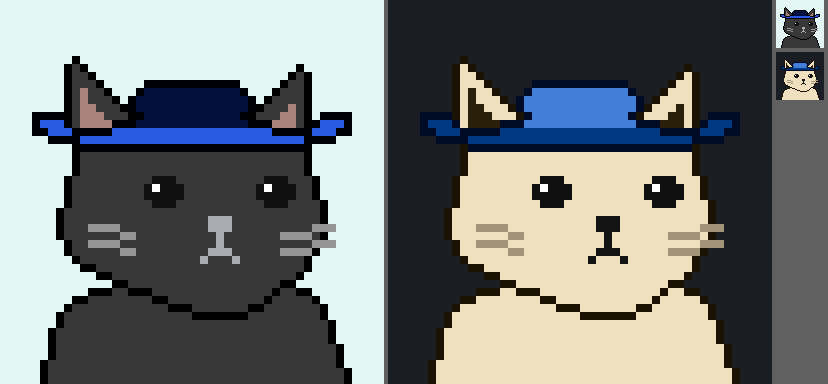
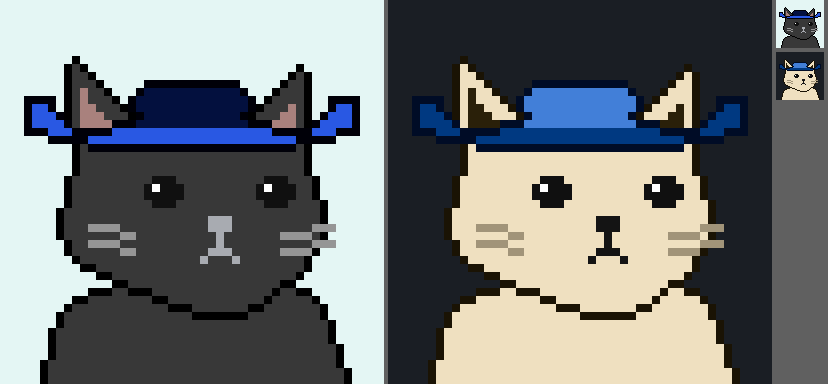
Fix what the second review still found at native size
Round two confirmed six of the nine rebuilds and left four things that only
explained themselves at 8x.

The corner watermark is gone. It survived being drawn but not being seen:
backgrounds hold their two tones deliberately close together, and at that
separation a shape with a three-column gap in the middle is a smudge where a dot
grid is not. Its slot goes to an order book depth ladder instead -- bars of
varying length running in from both margins, which is edge-anchored, simple, and
the one piece of trading furniture specific to Hyperliquid rather than generic to
crypto. The mark still earns its place on the hoodie, drawn in a garment palette.

The cowboy hat was reading as a sombrero, which is both the wrong hat and
adjacent to a collection this one should stay away from. Its tips now curl four
rows clear of the brim line rather than two. The mortarboard's tassel was a
two-pixel cord, so inked() painted every pixel of it, right beside the far ear's
own ink line; it has a terminal mass now and hangs clear of column 38. The
puffer's placket was six columns wide, which stopped being a zip and became a
panel, and the coat read as armour -- four columns now, with vertical ticks
between the seams so the quilting reads as chambers rather than stripes.

Also: the horizon split moves from row 30 to row 20, off the whiskers, where it
reads as distance instead of a counter the cat is standing behind. The jersey
[…]

diff --git a/packages/hyper-identicons/src/art/data/clothing.ts b/packages/hyper-identicons/src/art/data/clothing.ts
@@ -4,8 +4,8 @@ export const clothing: Record<string, string> = {
[2 lines of base64/hex data omitted]
   "tee": 'JAUMJwYABQETAAQBCQACAQUGAwEPAAEBBAYBAQcAAQEKBgIBDAABAQYGAQEFAAEBDQYDAQcAAgEHBgEBBQABARAGBwEKBgEBAwABASIGAQEDAAEBIgYBAQMAAQEjBgEBAgABASMGAQEBAAEBJAYBAQEAAQElBgIBJQYBAQ==',
[1 lines of base64/hex data omitted]
-  "jersey": 'JAUMJwYABQETAAQBCQACAQUGAwEPAAEBBAYBAQcAAQEKBgIBDAABAQYGAQEFAAEBDQYDAQcAAgEHBgEBBQABAQsGBQcHAQoGAQEDAAEBDQYJBwwGAQEDAAEBIgsBAQMAAQEjCwEBAgABASMLAQEBAAEBJAYBAQEAAQElBgIBJQYBAQ==',
[1 lines of base64/hex data omitted]
+  "jersey": 'JAUMJwYABQETAAQBCQACAQUGAwEPAAEBBAYBAQcAAQEKBgIBDAABAQYGAQEFAAEBDQYDAQcAAgEHBgEBBQABAQsGBQcHAQoGAQEDAAEBDQYJBwwGAQEDAAEBIgcBAQMAAQEjCwEBAgABASMLAQEBAAEBJAcBAQEAAQEBBgMHHAYDBwIGAgEBBgMHHAYDBwIGAQE=',
[1 lines of base64/hex data omitted]
   "none": 'AAABAQEA',
 };

diff --git a/packages/hyper-identicons/src/art/data/headwear.ts b/packages/hyper-identicons/src/art/data/headwear.ts
@@ -5,8 +5,8 @@ export const headwear: Record<string, string> = {
   "beanie": 'BQwOGAkABwEPAAIBBwYCAQwAAQELBgEBCgABAQ0GAQEIAAEBDwYBAQcAAQEPBgEBBgABAREGAQEFAAEBEAYBAQcAAQEOBgEBCQABAQwGAQELAAEBCwcBAQgAAwENBwIBAwADARIHAgEBABgB',
[7 lines of base64/hex data omitted]
   "halo": 'AQ8FEQQACQYGAAIGCQACBgIAAgYNAAIGAgACBgkAAgYGAAkGBAA=',
 };

diff --git a/packages/hyper-identicons/src/art/data/background.ts b/packages/hyper-identicons/src/art/data/background.ts
@@ -1,8 +1,8 @@
 // Generated by scripts/build-art.ts from art-source/background. Do not edit.
 export const background: Record<string, string> = {
   "plain": 'AAAwMP8G/wb/Bv8G/wb/Bv8G/wb/BgkG',
[1 lines of base64/hex data omitted]
-  "horizon": 'AAAwMP8G/wb/Bv8G/walBv8H/wf/B2MH',
[1 lines of base64/hex data omitted]
+  "horizon": 'AAAwMP8G/wb/BsMG/wf/B/8H/wf/B0UH',
[1 lines of base64/hex data omitted]
   "frame": 'AAAwMJMHKgYGByoGBgcqBgYHKgYGByoGBgcqBgYHKgYGByoGBgcqBgYHKgYGByoGBgcqBgYHKgYGByoGBgcqBgYHKgYGByoGBgcqBgYHKgYGByoGBgcqBgYHKgYGByoGBgcqBgYHKgYGByoGBgcqBgYHKgYGByoGBgcqBgYHKgYGByoGBgcqBgYHKgYGByoGBgcqBgYHKgYGByoGBgcqBgYHKgYGByoGBgcqBpMH',
[1 lines of base64/hex data omitted]

diff --git a/packages/hyper-identicons/src/art/data/mouth.ts b/packages/hyper-identicons/src/art/data/mouth.ts
@@ -2,7 +2,7 @@
 export const mouth: Record<string, string> = {
   "smile": 'GxgGBwIAAwEEAAMBBQABAQYAAQEDAAEBAgABAQIAAQEBAAIBAQACAQEA',
   "neutral": 'GxkGBQEAAwECAAMBAwABAQQAAQEDAAMBAQABAQMAAQE=',
-  "buddy": 'GxgGBwIAAwEEAAMBBQABAQYAAQEIAAgBAQA=',
+  "buddy": 'GxgGBwIAAwEEAAMBBQABAQYAAQEHAAgBAgA=',
   "blep": 'GxgJBwIAAwEEAAMBBQABAQYAAQEDAAEBAgABAQIAAQEBAAIBAQACAQIAAQEDBQEBAgABAQMFAQEDAAMBAgA=',
   "open": 'GxgJBwIAAwEEAAMBBQABAQYAAQEKAAgBBQoCAQUKAQEBAAUBAQA=',
 };

diff --git a/packages/hyper-identicons/src/art/manifest.ts b/packages/hyper-identicons/src/art/manifest.ts
@@ -7,7 +7,7 @@ export const MANIFEST: Manifest = {
     id: 'background',
     art: [
       { id: "plain", name: "Plain", weight: 32 },
-      { id: "blob", name: "Blob", weight: 16 },
+      { id: "ladder", name: "Depth", weight: 16 },
       { id: "horizon", name: "Horizon", weight: 12 },
       { id: "glow", name: "Glow", weight: 11 },
       { id: "frame", name: "Frame", weight: 10 },

diff --git a/tools/make-traits.py b/tools/make-traits.py
@@ -280,7 +280,7 @@ mouth("mouth/smile.txt", {30: [pair(20, 20, "o"), mid(0, "o")], 31: [pair(21, 22
 # The community's own gesture: a level mouth with one corner a single row up.
 # Fond rather than sneering, which is the whole point of it, and the entire trait
 # is that one pixel of asymmetry.
-mouth("mouth/buddy.txt", {30: [(25, 26, "o")], 31: [(20, 25, "o")]},
+mouth("mouth/buddy.txt", {30: [(24, 26, "o")], 31: [(20, 24, "o")]},
       "# Unimpressed but friendly.")
 
 mouth("mouth/blep.txt", {
@@ -469,11 +469,16 @@ emit("headwear/cowboy.txt", inked(merge(
         13: [(15, 32, "a")],
     }),
     {
-        13: [(4, 7, "b"), (40, 43, "b")],
-        14: [(4, 8, "b"), (14, 33, "a"), (39, 43, "b")],
-        15: [(4, 43, "b")],
+        # The tips curl four rows clear of the brim line, not two. A wide brim
+        # whose ends only nudge upward is a sombrero, which is both the wrong hat
+        # and a collection this one should stay well away from.
+        11: [(3, 6, "b"), (41, 44, "b")],
+        12: [(3, 6, "b"), (41, 44, "b")],
+        13: [(3, 7, "b"), (40, 44, "b")],
+        14: [(3, 8, "b"), (14, 33, "a"), (39, 44, "b")],
+        15: [(3, 44, "b")],
         16: [(6, 41, "b")],
-        17: [(10, 37, "b")],
+        17: [(11, 36, "b")],
     },
 )), "# Meowdy. Slots: a crown, b brim.")
 
@@ -485,8 +490,12 @@ emit("headwear/cowboy.txt", inked(merge(
 emit("headwear/mortarboard.txt", inked(merge(
     {y: [(9, 39, "a")] for y in range(3, 6)},
     hat({y: [(16, 31, "a")] for y in range(6, 14)} | {6: [(17, 30, "a")]}),
-    {y: [(39, 40, "c")] for y in range(6, 11)},
-    {11: [(38, 41, "c")], 12: [(38, 41, "c")]},
+    # The cord alone is invisible: two pixels wide, so every one of them is an
+    # edge and inked() paints the lot the ink colour, right beside the far ear's
+    # own ink line. It needs a terminal mass wide enough to keep an interior, and
+    # it has to hang clear of column 38, which is as far as the ear reaches.
+    {y: [(40, 41, "c")] for y in range(6, 11)},
+    {y: [(39, 43, "c")] for y in range(11, 14)},
 )), "# Purrfessor. Slots: a board and crown, c tassel.")
 
 # Drooping to the far side, which is where the asymmetry earns its keep: almost
@@ -601,10 +610,15 @@ emit("clothing/hoodie.txt", garment({
 # Horizontal seams alone are still a rugby shirt, though: a jumper has them too.
 # What makes it a coat is the zip placket running down the middle, breaking every
 # band in the same place and turning three stripes into six quilted panels.
+#
+# Four columns of placket, not six. At six it stopped being a zip and became a
+# panel down the front, and the coat read as body armour. The short vertical ticks
+# between the horizontal seams are what turn two long stripes into chambers.
 emit("clothing/puffer.txt", garment(merge(
     COLLAR,
     {41: [(0, 47, "o")], 44: [(0, 47, "o")], 47: [(0, 47, "o")]},
-    {y: [(21, 21, "o"), (22, 25, "b"), (26, 26, "o")] for y in range(39, 48)},
+    {y: [(14, 14, "o"), (33, 33, "o")] for y in (42, 43, 45, 46)},
+    {y: [(22, 22, "o"), (23, 24, "b"), (25, 25, "o")] for y in range(39, 48)},
 )), "# Quilted puffer. Slots: a fabric, b collar and placket, o seams.")
 
 # The V starts at row 39, the first row the chin has cleared. Above that the jaw
@@ -620,10 +634,16 @@ emit("clothing/suit.txt", garment({
     46: [(23, 25, "h")],
 }), "# Suit with shirt and tie. Slots: a jacket, w shirt, h tie.")
 
+# One thick band is a striped jumper. What says sport is the band being *trimmed*
+# top and bottom in a second colour, and a stripe running down each sleeve.
 emit("clothing/jersey.txt", garment({
     39: [(19, 29, "b")],
     40: [(20, 28, "b")],
-    41: [(0, 47, "h")],
+    41: [(0, 47, "b")],
     42: [(0, 47, "h")],
     43: [(0, 47, "h")],
-}), "# Banded jersey. Slots: a fabric, b neck, h band.")
+    44: [(0, 47, "b")],
+    45: [(7, 9, "b"), (38, 40, "b")],
+    46: [(7, 9, "b"), (38, 40, "b")],
+    47: [(7, 9, "b"), (38, 40, "b")],
+}), "# Banded jersey. Slots: a fabric, b neck, trim and sleeve stripes, h band.")

diff --git a/tools/make-backgrounds.py b/tools/make-backgrounds.py
@@ -30,7 +30,10 @@ print("backgrounds:")
 write("background/plain.txt", build(lambda x, y: "a"),
       "# Flat fill. Slots: a primary.")
 
-write("background/horizon.txt", build(lambda x, y: "b" if y >= 30 else "a"),
+# Row 20, not row 30. At 30 the split ran along the whiskers and the cat looked
+# like it was standing behind a counter; up here it passes behind the head and
+# reads as distance.
+write("background/horizon.txt", build(lambda x, y: "b" if y >= 20 else "a"),
       "# Ground plane behind the bust. Slots: a sky, b ground.")
 
 # Disc behind the head, sized so the cat's silhouette breaks its edge.
@@ -50,33 +53,31 @@ write("background/grid.txt",
       build(lambda x, y: "b" if x % 6 == 3 and y % 6 == 3 else "a"),
       "# Sparse dot grid. Slots: a field, b dot.")
 
-# The Hyperliquid mark as a corner watermark, in the one part of the canvas the
-# cat leaves empty.
+# Depth on both sides of the book: bar length varies, bars stack, and the eye
+# reads a ladder. This is the one piece of trading furniture that is specifically
+# Hyperliquid rather than generically crypto -- the fully on-chain order book is
+# the thing they are proudest of -- and it happens to be the only motif that fits
+# where a background is actually visible. The cat owns the middle of the canvas;
+# what is left is two margins about eight columns wide.
 #
-# Drawn full size first, filling the field with the cat sitting on top, which is
-# what a background motif is supposed to be. It did not work: the waist is the
-# entire shape, the waist is at mid height, and mid height is exactly where the
-# head is. All that showed was a bump either side of the ears. The corner is the
-# only place it can be read whole, and at 13x9 it fits above the far ear without
-# touching it.
-#
-# It replaced a thin ring, which sat close enough to the head to read as a
-# selection outline and fought the halo trait for the same piece of canvas.
-MARK = {
-    1: [(42, 43)],
-    2: [(41, 44)],
-    3: [(33, 35), (40, 45)],
-    4: [(33, 36), (40, 45)],
-    5: [(33, 45)],
-    6: [(33, 45)],
-    7: [(33, 36), (40, 45)],
-    8: [(34, 35), (41, 44)],
-    9: [(42, 43)],
-}
-MARK_CELLS = {(x, y) for y, runs in MARK.items() for x0, x1 in runs for x in range(x0, x1 + 1)}
+# It replaced two attempts at putting the Hyperliquid mark back here. Full size
+# the cat hid the waist, which is the whole shape. Shrunk to a 13x9 corner
+# watermark it survived being drawn but not being seen: backgrounds hold their two
+# tones close together on purpose, and at that separation a shape with a
+# three-column gap in the middle is a smudge at 48px where a dot grid is not.
+# The mark earns its place on the hoodie, drawn in a garment palette, not here.
+DEPTH = [7, 4, 9, 3, 6, 10, 5, 8, 4, 7, 3, 9, 6, 4, 8, 5]
 
-write("background/blob.txt", build(lambda x, y: "b" if (x, y) in MARK_CELLS else "a"),
-      "# The Hyperliquid mark, tucked into the corner. Slots: a field, b mark.")
+
+def ladder(x, y):
+    if y % 3:
+        return False
+    step = y // 3
+    return x < DEPTH[step % len(DEPTH)] or x >= N - DEPTH[(step + 5) % len(DEPTH)]
+
+
+write("background/ladder.txt", build(lambda x, y: "b" if ladder(x, y) else "a"),
+      "# Order book depth down both margins. Slots: a field, b bar.")
 
 print("empty traits:")
 for path, label in (

diff --git a/AGENTS.md b/AGENTS.md
@@ -320,17 +320,29 @@ Two rules of thumb learned the hard way:
 - **Do not ink anything two pixels thick.** Every pixel is an edge, so the whole
   shape comes out the ink colour. That is fine on fur and fatal on the halo, which
   is the one worn thing sitting entirely on the background — the slot it needs is
-  `a`, which flips with tone.
+  `a`, which flips with tone. It also cost the mortarboard its tassel: a two-pixel
+  cord came out solid ink right beside the far ear's own ink line. Anything that
+  dangles needs a terminal mass wide enough to keep an interior.
+- **Read a hat's outline as if it were solid black.** That is all you get at 48px.
+  A wide brim whose ends nudge up two rows is a sombrero; the cowboy hat only
+  became a cowboy hat once the tips curled four rows clear of the brim line. By
+  the same logic one thick horizontal band is a striped jumper whatever colour it
+  is — the jersey needed trim above and below the band before it read as sport.
 - **Hats are distinguished by silhouette, not by detail.** Beanie, bucket and cap
   were three versions of one shallow dome plus a horizontal bar. They now differ
   in outline alone: a rounded dome with a snug cuff, a dome over a brim that
   widens all the way down, and a shell with a peak swept off one side. A brim that
   is widest at its middle row is a flat disc, which is the cowboy hat.
-- **A background cannot be a single figure.** The cat owns the middle of the
-  canvas, and the Hyperliquid mark's waist — the entire shape — sits at exactly
-  head height, so drawn full size all that showed was a bump either side of the
-  ears. Backgrounds have to be texture, or tucked into the corner the far ear
-  leaves free at rows 1-9, columns 33-45.
+- **A background cannot be a single figure, and it cannot be intricate either.**
+  The cat owns the middle of the canvas; what is left is two margins about eight
+  columns wide and a band across the top. The Hyperliquid mark failed here twice
+  over: drawn full size its waist — the entire shape — sat at exactly head height,
+  so all that showed was a bump either side of the ears, and shrunk to a corner
+  watermark it survived being drawn but not being seen. Backgrounds hold their two
+  tones deliberately close together, and at that separation a shape with a
+  three-column gap in the middle is a smudge at 48px where a dot grid is not.
+  Anything here has to be edge-anchored and simple, which is why the order book
+  ladder works: bars of varying length running in from both margins.
 - **Only clip the crown of a hat, never its brim.** The ears occupy rows 6-16,
   columns 8-17 and 31-38. A brim run through `hat()` comes back with a bite out of
   each side and its tips detached, floating in the background — which happened to
